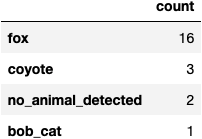
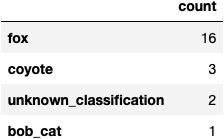
changed analytics no animal class to 'unknown classification'

diff --git a/fastapi_ui/templates/analytics.html b/fastapi_ui/templates/analytics.html
@@ -297,7 +297,7 @@
 
             <br><br>
             <form action="/analytics_reclassify_image" method="post">
-                <input type="text" name="img_name" id="img_name" placeholder="img name (no '.jpg' ending)" required>
+                <input type="text" name="img_name" id="img_name" placeholder="img name" required>
                 <input type="text" name="new_class" id="new_class" placeholder="e.g. fox" required>
                 <input type="submit">
             </form>

diff --git a/fastapi_ui/app/routers/analytics.py b/fastapi_ui/app/routers/analytics.py
@@ -233,7 +233,7 @@ def get_model_data():
     #                 "predicted_classes_original"] = "animal_detected"
     df.loc[(df["predicted_classes_original"] == "0") | 
                     (df["predicted_classes_original"] == 0), 
-                    "predicted_classes_original"] = "no_animal_detected"
+                    "predicted_classes_original"] = "unknown_classification"
 
     df['predicted_classes_original'] = df.predicted_classes_original.replace(' ', '_', regex=True)
 
